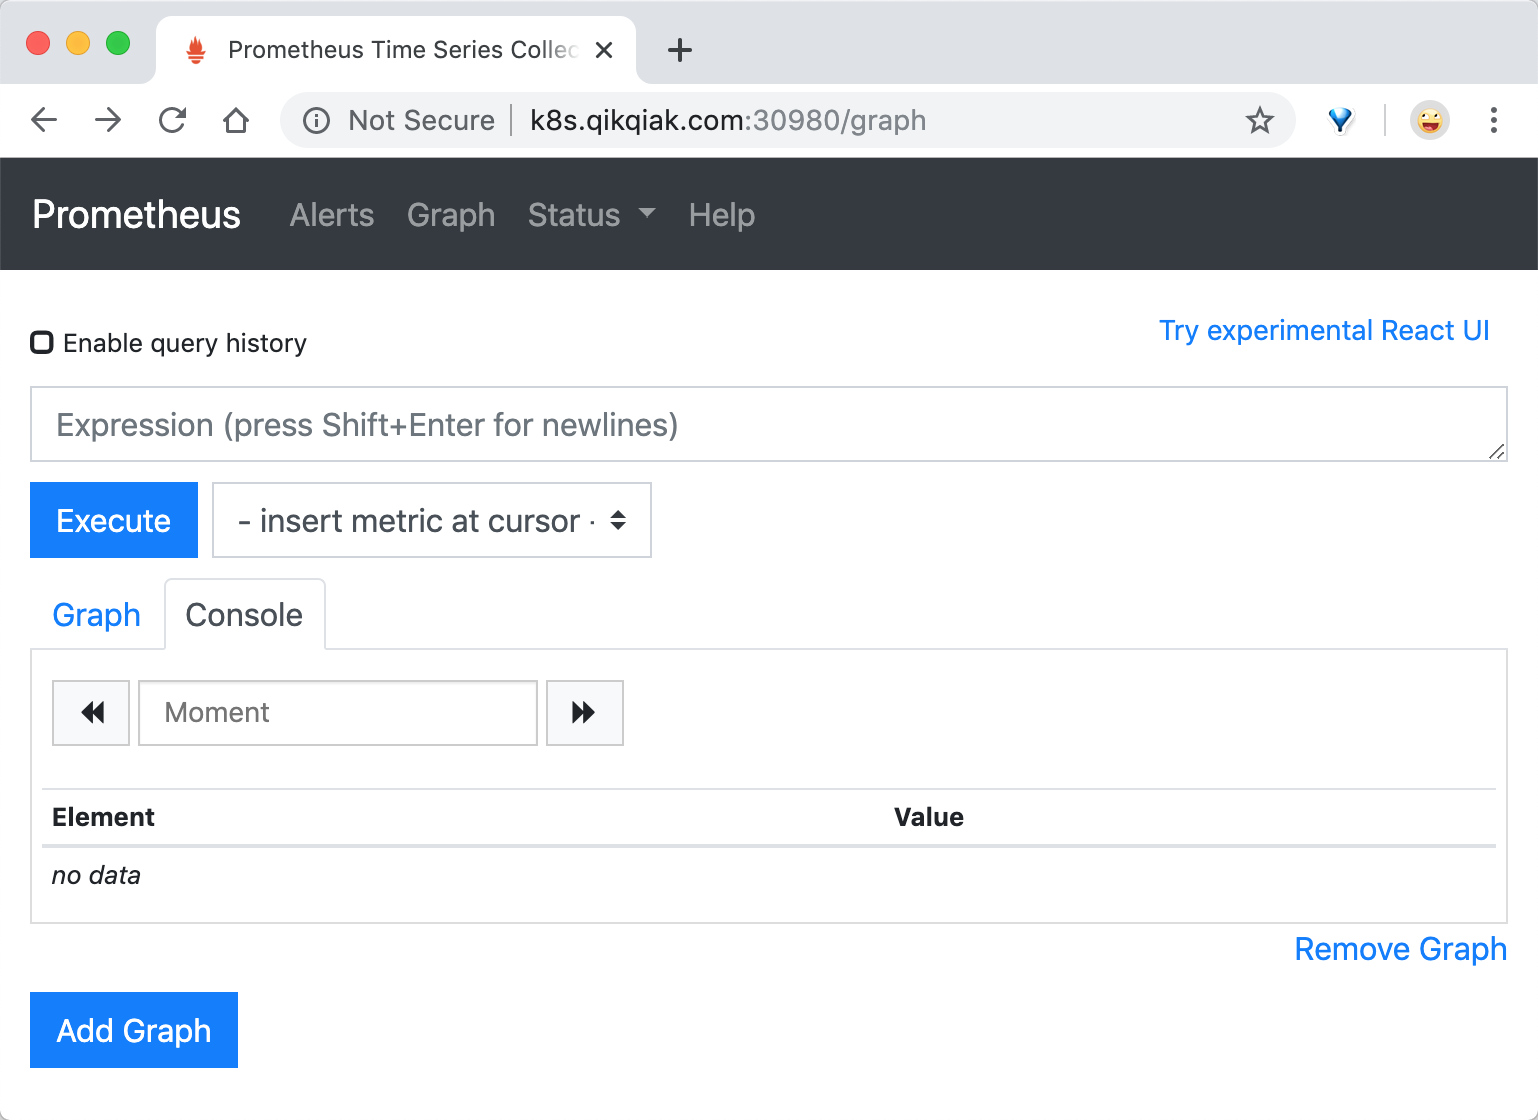
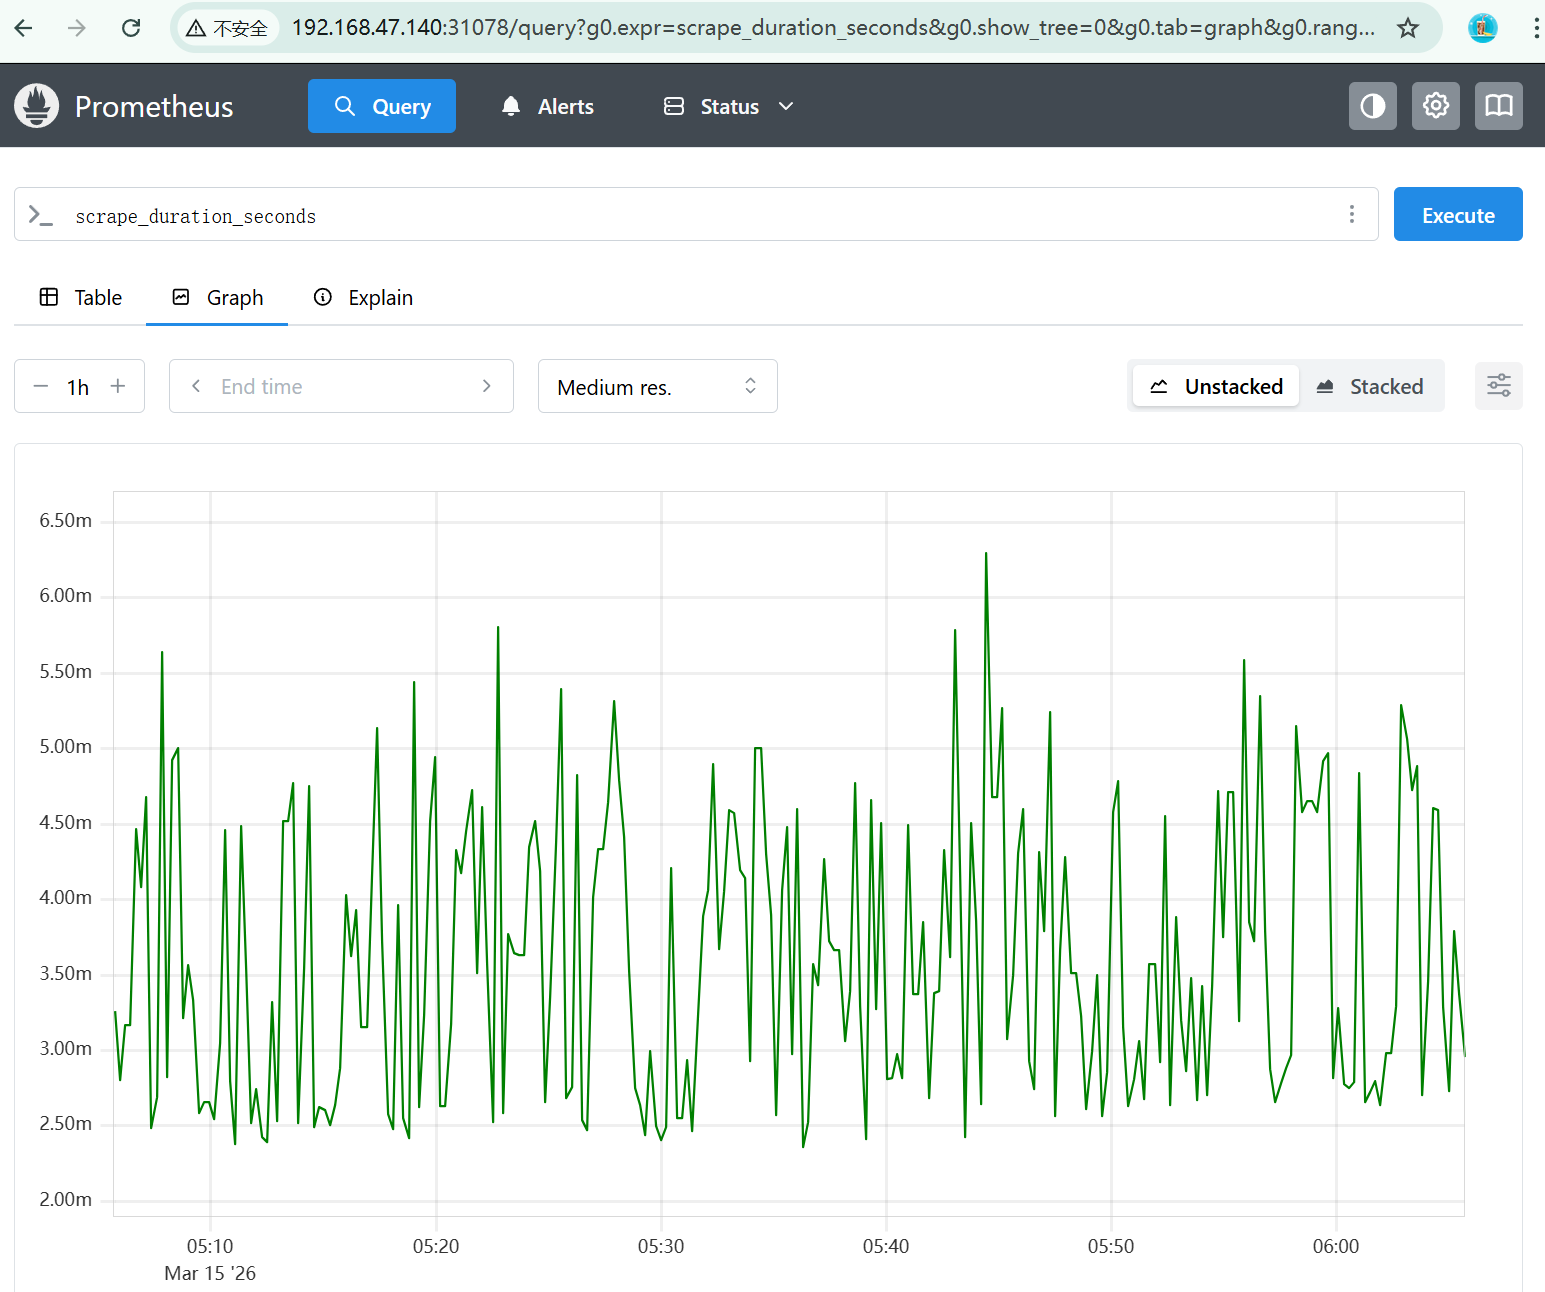
4.2.1 update finished

diff --git a/docs/prometheus/prometheus.md b/docs/prometheus/prometheus.md
@@ -94,9 +94,11 @@ alerting:
 
 若要监控更多目标，可在 `scrape_configs` 下追加新的 `scrape_config`（新 job），或在现有 job 的 `static_configs` 中增加目标；也可通过服务发现等方式动态发现目标。
 
-### T4.2.1、示例（与 Prometheus 3.10 一致）
+### T4.2.1、示例 Prometheus 3.10
 
-本小节使用 [Prometheus Go 客户端库](https://github.com/prometheus/client_golang) 的 `examples/random` 示例，在本地暴露三个带不同延迟分布的模拟 RPC 指标端点，供 Prometheus 3.10 抓取。该示例暴露的指标格式符合 [Prometheus 文本格式](https://prometheus.io/docs/instrumenting/exposition_formats/)，可直接被 Prometheus 抓取。
+本小节分为两部分：**本地示例**（1～2）在主机上用 Go 客户端库暴露指标并用本地 Prometheus 抓取；**Kubernetes 部署**（3～7）在集群中部署 Prometheus 3.10 及依赖资源。两部分的配置与步骤互不依赖，可按需只做其一。
+
+本小节使用 [Prometheus Go 客户端库](https://github.com/prometheus/client_golang) 的 `examples/random` 示例，在本地暴露三个带不同延迟分布的模拟 RPC 指标端点，供 Prometheus 3.10 抓取。该示例暴露的指标格式符合 [Prometheus exposition 格式](https://prometheus.io/docs/instrumenting/exposition_formats/)，可直接被 Prometheus 抓取。
 
 **1. 准备 Go 环境并运行 random 示例**
 
@@ -137,11 +139,13 @@ scrape_configs:
           group: 'canary'
 ```
 
-通过为同一 job 下不同 `static_configs` 设置不同 `labels`，可在 Prometheus 中区分环境（例如生产与金丝雀）。在 Web UI 的 Status → Targets 中可确认新 job 是否被正确抓取。添加监控目标的核心方式即为：在 `scrape_configs` 中增加一个 `scrape_config`，并保证目标提供符合 Prometheus  exposition 格式的 HTTP 指标接口（默认路径 `/metrics`）。
+通过为同一 job 下不同 `static_configs` 设置不同 `labels`，可在 Prometheus 中区分环境（例如生产与金丝雀）。在 Web UI 的 Status → Targets 中可确认新 job 是否被正确抓取。添加监控目标的核心方式即为：在 `scrape_configs` 中增加一个 `scrape_config`，并保证目标提供符合 [Prometheus exposition](https://prometheus.io/docs/instrumenting/exposition_formats/) 格式的 HTTP 指标接口（默认路径 `/metrics`）。
 
 > 为便于管理，以下所有监控相关资源均放在 namespace `kube-mon` 下，若不存在请先执行：`kubectl create namespace kube-mon`。
 
 **3. 在 Kubernetes 中部署 Prometheus 3.10**
+
+以下给出 ConfigMap、Deployment、PV/PVC、RBAC、Service 的**资源定义**；实际在集群中的 **apply 顺序** 见本小节「6. 部署 Prometheus 并处理数据目录权限」中的表格，须严格按该顺序执行，否则 Pod 无法创建或无法调度。
 
 将 Prometheus 配置放入 ConfigMap，与 [官方配置结构](https://prometheus.io/docs/prometheus/latest/configuration/configuration/) 一致。注意：`scrape_timeout` 不能大于 `scrape_interval`；保留时间建议在配置文件中用 `storage.tsdb.retention` 设置（3.x 推荐方式，命令行参数已弃用）。
 
@@ -244,7 +248,7 @@ spec:
 
 **4. 数据持久化（Local PV）**
 
-以下使用 Local PV 将 Prometheus 数据落到宿主机目录。**重要**：Local PV 只能被调度到「拥有该磁盘路径」的那台节点，因此 `nodeAffinity` 里的节点名必须与集群中真实节点名一致（如 `worker-01`），否则使用该 PVC 的 Pod 会一直处于 **Pending**（且可能看不到 Pod 被创建，实为调度失败）。请先将下面 YAML 中的 `values` 里的节点名改成你打算运行 Prometheus 的节点名（可用 `kubectl get nodes` 查看）。该节点上需事先创建目录并确保 Kubelet 可写（例如 `mkdir -p /data/k8s/prometheus`）。
+以下使用 Local PV 将 Prometheus 数据落到宿主机目录，采用 **静态制备（static provisioning）**：手动创建 PV 和 PVC，由控制面根据容量、访问模式、`storageClassName` 等 [匹配并绑定](https://kubernetes.io/docs/concepts/storage/persistent-volumes/#binding)。PV 与 PVC 的 `storageClassName` 填成相同字符串（如 `local-storage`）即可互相匹配，**不需要**在集群中实际存在同名的 StorageClass 资源；`kubectl get storageclass` 查不到 `local-storage` 也属正常。只有 **动态制备（dynamic provisioning）**（只创建 PVC、由 StorageClass 的 provisioner 自动创建 PV）才要求集群中存在对应名称的 StorageClass 对象。**重要**：Local PV 只能被调度到「拥有该磁盘路径」的那台节点，因此 `nodeAffinity` 里的节点名必须与集群中真实节点名一致（如 `worker-01`），否则使用该 PVC 的 Pod 会一直处于 **Pending**。请先将下面 YAML 中的 `values` 里的节点名改成你打算运行 Prometheus 的节点名（可用 `kubectl get nodes` 查看）。该节点上需事先创建目录并确保 Kubelet 可写（例如 `mkdir -p /data/k8s/prometheus`）。
 
 ```yaml
 # prometheus-pv-pvc.yaml（请将 node3 改为实际节点名，如 worker-01）
@@ -357,25 +361,22 @@ kubectl apply -f prometheus-rbac.yaml
 
 部署前可快速检查依赖是否就绪：`kubectl get sa prometheus -n kube-mon`、`kubectl get configmap prometheus-config -n kube-mon`、`kubectl get pvc prometheus-data -n kube-mon`，三者均存在后再 apply Deployment。
 
-**若创建 Deployment 后没有 Pod**：
-- **报错 `serviceaccount "prometheus" not found`**：说明未先执行「5. RBAC」。执行 `kubectl apply -f prometheus-rbac.yaml` 后，再执行 `kubectl rollout restart deployment prometheus -n kube-mon`（或删除 Deployment 后重新 `kubectl apply -f prometheus-deploy.yaml`），Pod 即可被创建。
-- **Pod 一直 Pending**：多半是 Local PV 的节点亲和写成了不存在的节点（如文档示例里的 `node3`）。解决步骤：① 删除 Deployment；② 删除 PVC；③ 删除 PV；④ 把 PV 的 `nodeAffinity.values` 改成实际节点名（如 `worker-01`），保存后重新 `kubectl apply -f prometheus-pv-pvc.yaml`；⑤ 再 `kubectl apply -f prometheus-deploy.yaml`。
+按上表顺序，在已执行顺序 1、2 的前提下，执行顺序 3、4、5 的示例命令如下：
 
 ```bash
-kubectl apply -f prometheus-pv-pvc.yaml
-kubectl apply -f prometheus-deploy.yaml
-```
-
-若 Pod 出现 `CrashLoopBackOff` 且日志中有 `permission denied`（例如 `open /prometheus/queries.active: permission denied`），是因为 `prom/prometheus:v3.10.0` 默认以非 root 用户（UID 常为 65534）运行，而 Local PV 挂载的宿主机目录往往属主为 root。上文提供的 `prometheus-deploy.yaml` 已包含 **initContainer**，在启动前将 `/prometheus` 目录属主改为 65534:65534，一般即可避免该问题。若仍报错，可核对镜像实际运行 UID，或临时使用 `securityContext.runAsUser: 0`（仅建议在实验环境使用）。
-
-执行部署并确认 Pod 为 Running：
-
-```bash
-kubectl apply -f prometheus-deploy.yaml
+kubectl apply -f prometheus-pv-pvc.yaml    # 顺序 3
+kubectl apply -f prometheus-rbac.yaml     # 顺序 4
+kubectl apply -f prometheus-deploy.yaml   # 顺序 5
 kubectl get pods -n kube-mon
 ```
 
-成功启动后，日志中会出现配置加载及 “Server is ready to receive web requests.” 等输出（Prometheus 3.10 的日志格式可能与旧版略有不同）。
+成功启动后，Pod 状态为 Running，日志中会出现配置加载及 “Server is ready to receive web requests.” 等输出（Prometheus 3.10 的日志格式可能与旧版略有不同）。
+
+**若创建 Deployment 后没有 Pod**：
+- **报错 `serviceaccount "prometheus" not found`**：说明未先执行本小节「5. RBAC」。执行 `kubectl apply -f prometheus-rbac.yaml` 后，再执行 `kubectl rollout restart deployment prometheus -n kube-mon`（或删除 Deployment 后重新 `kubectl apply -f prometheus-deploy.yaml`），Pod 即可被创建。
+- **Pod 一直 Pending**：多半是 Local PV 的节点亲和写成了不存在的节点（如文档示例里的 `node3`）。解决步骤：① 删除 Deployment；② 删除 PVC；③ 删除 PV；④ 把 PV 的 `nodeAffinity.values` 改成实际节点名（如 `worker-01`），保存后重新 `kubectl apply -f prometheus-pv-pvc.yaml`；⑤ 再 `kubectl apply -f prometheus-deploy.yaml`。
+
+**若 Pod 出现 `CrashLoopBackOff` 且日志有 `permission denied`**（如 `open /prometheus/queries.active: permission denied`）：`prom/prometheus:v3.10.0` 默认以非 root（UID 65534）运行，而 Local PV 挂载的宿主机目录往往属主为 root。本节提供的 `prometheus-deploy.yaml` 已包含 **initContainer** 在启动前执行 `chown -R 65534:65534 /prometheus`，一般即可避免。若仍报错，可核对镜像实际运行 UID，或临时使用 `securityContext.runAsUser: 0`（仅建议在实验环境使用）。
 
 **7. 创建 Service 以访问 Web UI**
 
@@ -405,19 +406,13 @@ kubectl apply -f prometheus-svc.yaml
 kubectl get svc -n kube-mon
 ```
 
-记下 NodePort 端口（例如 `30980`），在浏览器中访问 `http://<任意节点 IP>:<NodePort>` 即可打开 Prometheus 3.10 的 Web UI。
+记下 NodePort 端口（例如 `31078`），在浏览器中访问 `http://<任意节点 IP>:<NodePort>` 即可打开 Prometheus 3.10 的 Web UI。
 
-- **Status → Targets**：查看当前抓取目标及状态。
+- **Status -> Target health**：查看当前抓取目标及状态。
 - **Alerts**：未配置告警规则时为空。
-- **Graph**：在查询框输入指标名（如 `scrape_duration_seconds`）并执行，可查看 Prometheus 自抓取指标等时间序列图表。
+- **Query -> Graph**：在查询框输入指标名（如 `scrape_duration_seconds`）并执行，可查看 Prometheus 自抓取指标等时间序列图表。
 
 ![prometheus-webui](./images/prometheus-webui.png)
-
-![prometheus-webui-targets](./images/prometheus-webui-targets.png)
-
-![prometheus-webui-metrics](./images/prometheus-webui-metrics.png)
-
-![prometheus-webui-query](./images/prometheus-webui-query.png)
 
 ## T4.3、监控应用
 
